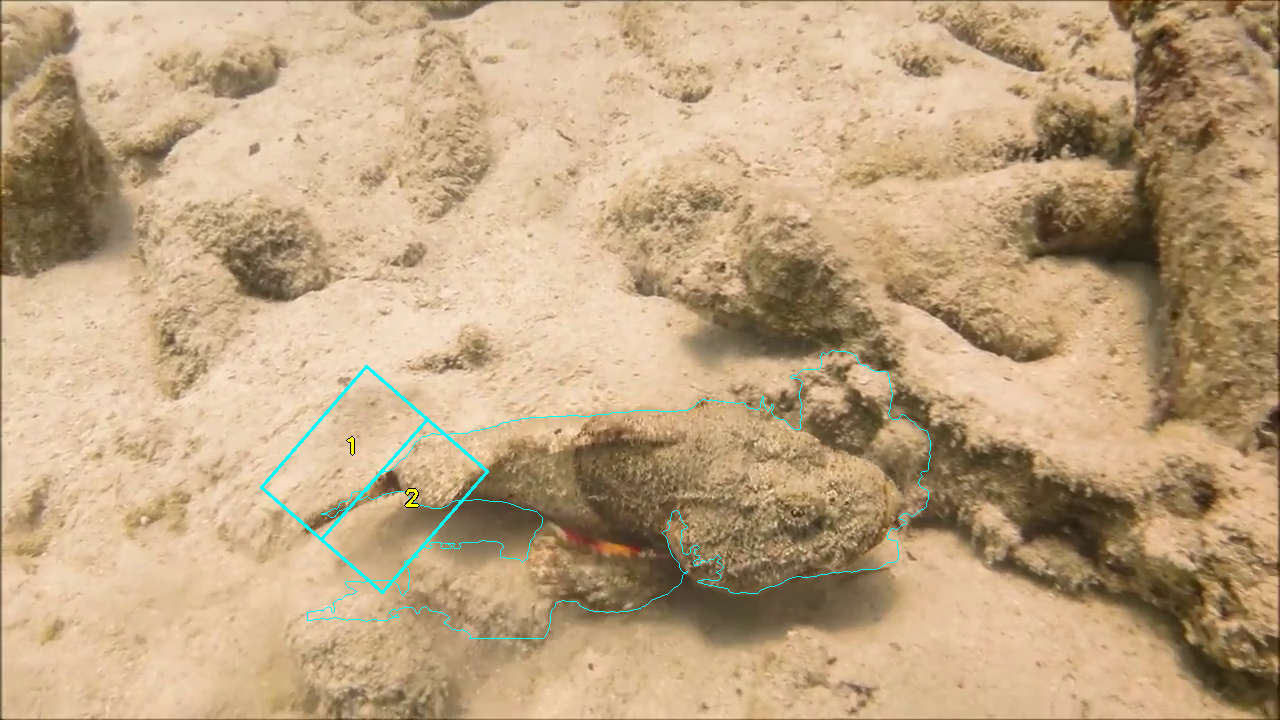
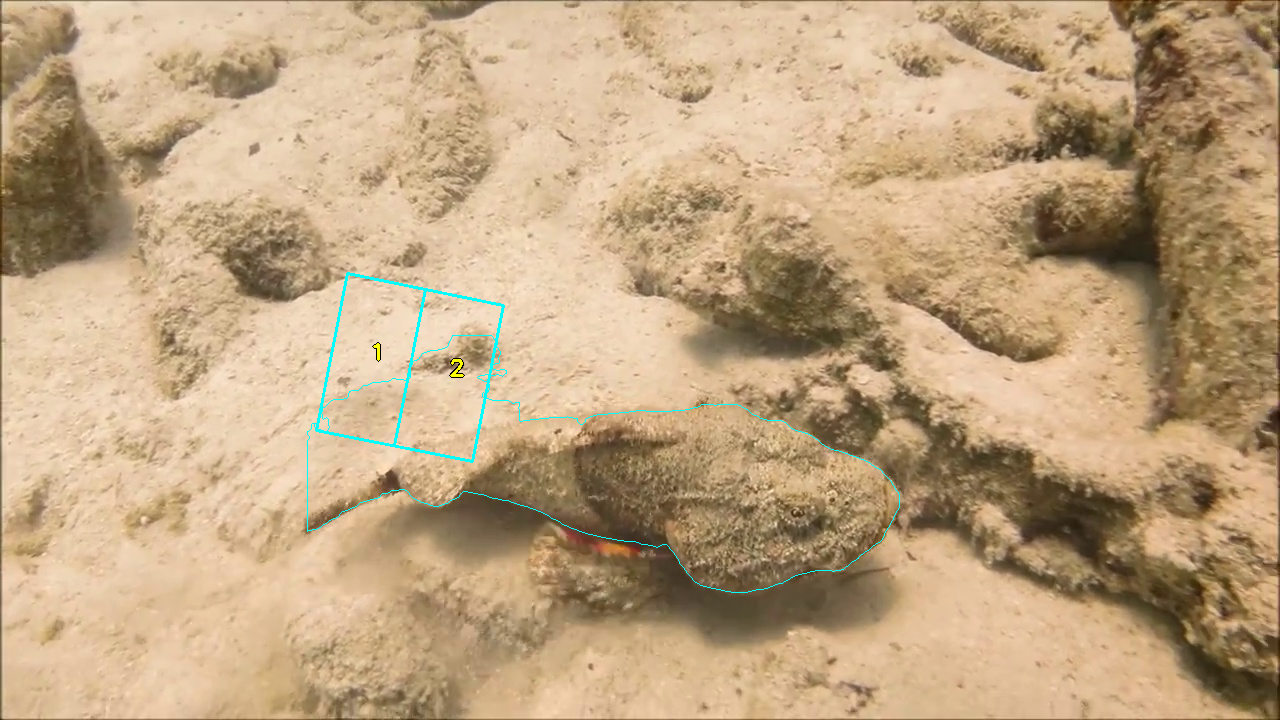
还需要修改提示词，现在能够正确运行了，有的 时候判别不准导致问题

diff --git a/refactor_sam_sculpt.py b/refactor_sam_sculpt.py
@@ -3,7 +3,7 @@ import sys
 import json
 import numpy as np
 import cv2
-from typing import List, Tuple
+from typing import List, Tuple, Optional
 
 # Runtime env tuning for stability
 os.environ.setdefault('TOKENIZERS_PARALLELISM', 'false')
@@ -586,8 +586,13 @@ def refine_mask_with_points(predictor: SamPredictor, image: np.ndarray, roi_box:
                           pos_points: List[Tuple[float, float]],
                           neg_points: List[Tuple[float, float]],
                           prev_mask: np.ndarray,
-                          square_size: float = 0.0) -> Tuple[np.ndarray, ROIBox]:
-    """步骤4: 使用正负点进行SAM分割优化，支持智能BBox扩展
+                          square_size: float = 0.0,
+                          allowed_update_mask: Optional[np.ndarray] = None) -> Tuple[np.ndarray, ROIBox]:
+    """步骤4: 使用正负点进行SAM分割优化，支持智能BBox扩展与局部更新门控
+    
+    Args:
+        allowed_update_mask: 允许更新的区域（H×W二值）。如果提供，只有该区域内使用新掩码覆盖，其他位置保持前一轮结果。
+    
     返回: (refined_mask, updated_roi_box)
     """
     predictor.set_image(image)
@@ -626,6 +631,13 @@ def refine_mask_with_points(predictor: SamPredictor, image: np.ndarray, roi_box:
     x0, y0, x1, y1 = int(smart_roi.x0), int(smart_roi.y0), int(smart_roi.x1), int(smart_roi.y1)
     clipped_mask = np.zeros((H, W), dtype=np.uint8)
     clipped_mask[y0:y1, x0:x1] = (best_mask[y0:y1, x0:x1] > 0).astype(np.uint8) * 255
+
+    # 应用局部更新门控：仅在允许区域内更新，其它区域保持不变
+    if allowed_update_mask is not None:
+        gate = (allowed_update_mask > 0).astype(np.uint8)
+        final_mask = prev_mask.copy()
+        final_mask[gate.astype(bool)] = clipped_mask[gate.astype(bool)]
+        return final_mask, smart_roi
 
     return clipped_mask, smart_roi  # 返回扩展后的ROI供下一轮使用
 
@@ -726,6 +738,7 @@ def main():
         # 收集所有正负点
         all_pos_points = []
         all_neg_points = []
+        update_windows: List[Tuple[int, int, int, int]] = []  # (L, T, R, B)
         # 使用基于连线交点的锚点
         projected_anchor_points = get_anchor_points(roi_box, current_mask)
 
@@ -743,6 +756,9 @@ def main():
                 image, anchor_point, roi_box, current_mask, anchor_id, ratio=float(args.ratio)
             )
             save_image(os.path.join(output_dir, f'round{round_idx + 1}_step3_anchor{anchor_id}_tangent_square.png'), quad_vis)
+            # 记录本锚点的局部更新窗口（L,T,R,B）
+            L, T, R, Btm, _, _ = square_bounds
+            update_windows.append((int(L), int(T), int(R), int(Btm)))
 
             # 传给VLM前缩放
             quad_vis_vlm = _resize_for_vlm(quad_vis, int(args.vlm_max_side))
@@ -772,15 +788,32 @@ def main():
         roi_height = roi_box.y1 - roi_box.y0
         square_size = max(120.0, float(args.ratio) * float(min(roi_width, roi_height)))
         
-        # 步骤4: 使用收集的点进行sam分割（支持智能BBox扩展）
+        # 步骤4: 使用收集的点进行sam分割（支持智能BBox扩展 + 局部更新门控）
         if all_pos_points or all_neg_points:
             print(f"步骤4: 使用 {len(all_pos_points)} 个正点和 {len(all_neg_points)} 个负点进行分割...")
             print(f"[参数] 小正方形尺寸: {square_size:.1f} px （用于智能扩展BBox）")
+            # 构建局部更新门控掩码（允许在本轮涉及到的切线正方形窗口内更新）
+            H, W = image.shape[:2]
+            allowed_update_mask = np.zeros((H, W), dtype=np.uint8)
+            # 合理的余量，允许轮廓在窗口外稍作延展
+            margin = int(max(6, min(32, square_size * 0.25)))
+            for (L, T, R, Btm) in update_windows:
+                x0m = max(0, L - margin)
+                y0m = max(0, T - margin)
+                x1m = min(W, R + margin)
+                y1m = min(H, Btm + margin)
+                allowed_update_mask[y0m:y1m, x0m:x1m] = 1
+            updated_area = int(allowed_update_mask.sum())
+            print(f"[门控] 本轮允许更新的像素区域: {updated_area}（带margin={margin}px）")
+
             # 清理GPU缓存以释放内存
             import torch
             torch.cuda.empty_cache()
-            current_mask, updated_roi_box = refine_mask_with_points(predictor, image, roi_box,
-                                                                   all_pos_points, all_neg_points, current_mask, square_size)
+            current_mask, updated_roi_box = refine_mask_with_points(
+                predictor, image, roi_box,
+                all_pos_points, all_neg_points, current_mask, square_size,
+                allowed_update_mask=allowed_update_mask,
+            )
             # 更新ROI框供下一轮使用
             if (updated_roi_box.x0 != roi_box.x0 or updated_roi_box.y0 != roi_box.y0 or 
                 updated_roi_box.x1 != roi_box.x1 or updated_roi_box.y1 != roi_box.y1):
